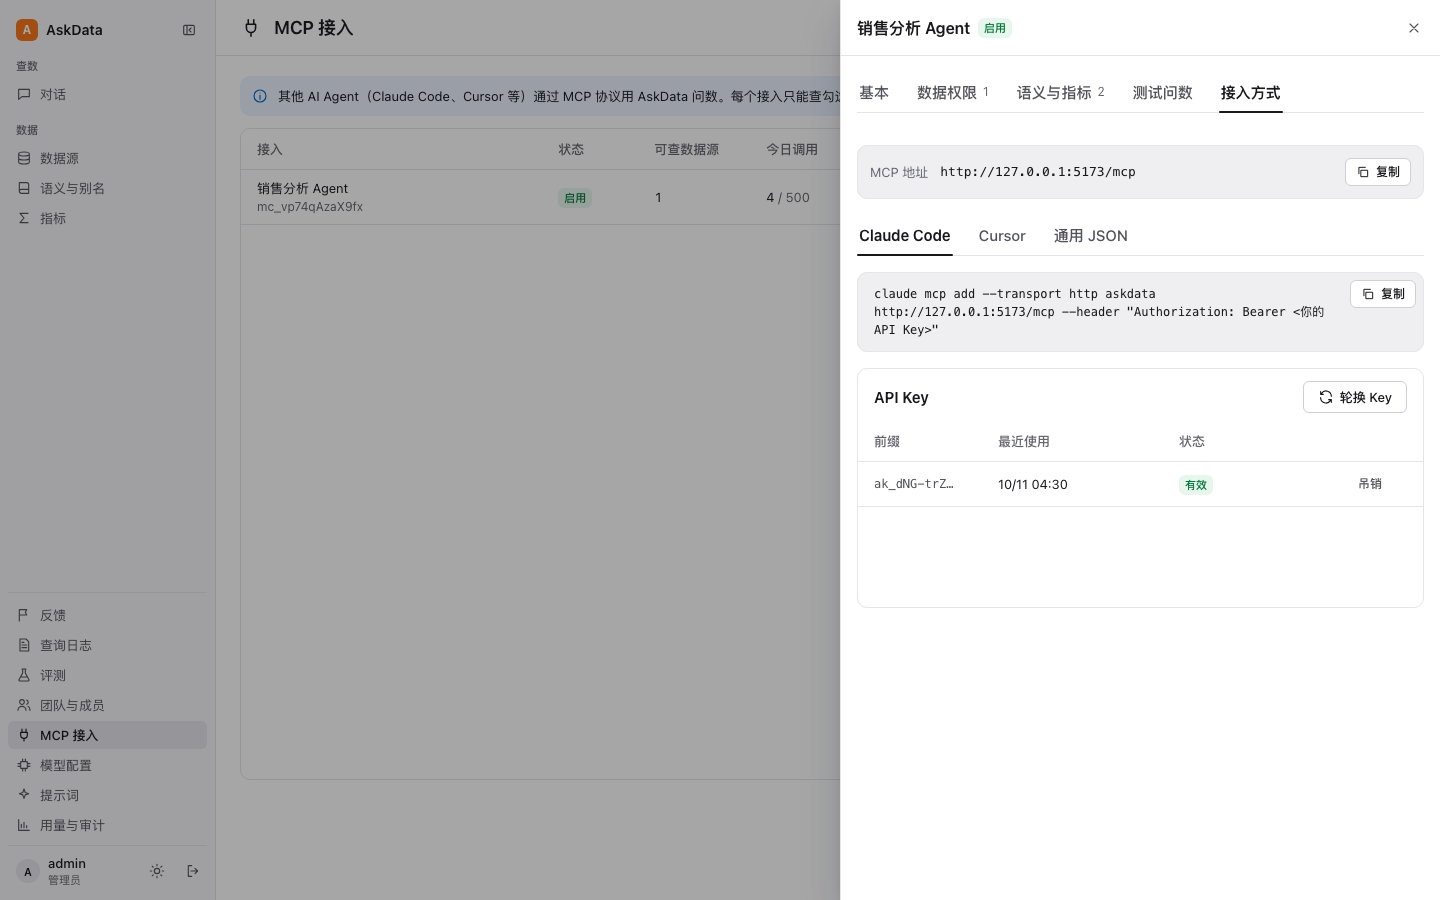
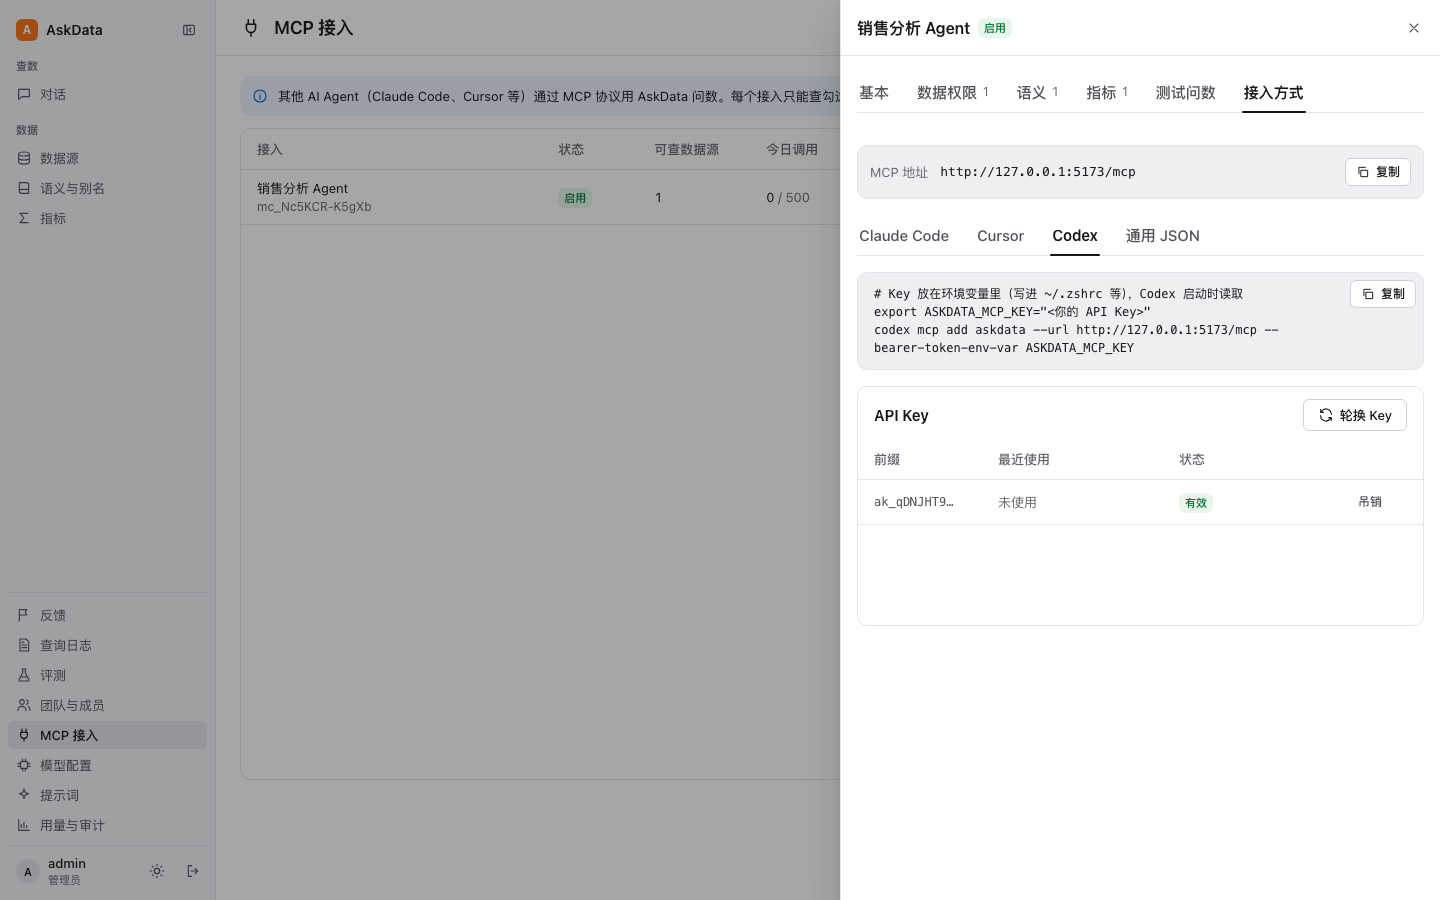
feat(mcp): separate semantic and metric tabs, Codex config
- the connection drawer has 语义 and 指标 tabs, each with its own override count,
  restore-all for that kind only and its own empty state; the platform tag and kind
  badge are gone from each row (the status column already says it)
- McpClientRead.override_kinds counts overrides per kind
- 接入方式 adds Codex: the key in an environment variable,
  codex mcp add --url ... --bearer-token-env-var
- README: Codex config, refreshed screenshots

diff --git a/frontend/src/pages/McpPage.tsx b/frontend/src/pages/McpPage.tsx
@@ -19,7 +19,7 @@ import {
   useUpdateMcpClient,
 } from '../api/hooks'
 import type { McpClientRead, McpClientWrite, McpKeyCreated, OverlayItem, TableRead, TestAskReply } from '../api/types'
-import { Badge, Button, Callout, ScopeTag, Switch, Tabs, TextField } from '../components/basic'
+import { Badge, Button, Callout, Switch, Tabs, TextField } from '../components/basic'
 import { Check } from '../components/Check'
 import { ConfirmDialog, Dialog, DialogFooter, Drawer, UnsavedDialog } from '../components/Dialog'
 import { Icon } from '../components/Icon'
@@ -262,7 +262,7 @@ function Snippet(props: { text: string }) {
   )
 }
 
-type TabId = 'basic' | 'grants' | 'items' | 'test' | 'connect'
+type TabId = 'basic' | 'grants' | 'semantic' | 'metric' | 'test' | 'connect'
 
 function McpDetail(props: { id: number; justCreated: McpKeyCreated | null; onClose: () => void }) {
   const client = useMcpClient(props.id)
@@ -300,7 +300,8 @@ function McpDetail(props: { id: number; justCreated: McpKeyCreated | null; onClo
             items={[
               { id: 'basic', label: '基本' },
               { id: 'grants', label: '数据权限', count: (c.datasource_ids ?? []).length },
-              { id: 'items', label: '语义与指标', count: c.override_count || undefined },
+              { id: 'semantic', label: '语义', count: c.override_kinds?.semantic || undefined },
+              { id: 'metric', label: '指标', count: c.override_kinds?.metric || undefined },
               { id: 'test', label: '测试问数' },
               { id: 'connect', label: '接入方式' },
             ]}
@@ -308,7 +309,7 @@ function McpDetail(props: { id: number; justCreated: McpKeyCreated | null; onClo
           <div className="cb-mcp-tab">
             {tab === 'basic' ? <BasicTab client={c} onDeleted={props.onClose} /> : null}
             {tab === 'grants' ? <GrantsTab client={c} onDirty={setDirty} /> : null}
-            {tab === 'items' ? <ItemsTab client={c} /> : null}
+            {tab === 'semantic' || tab === 'metric' ? <ItemsTab key={tab} client={c} kind={tab} /> : null}
             {tab === 'test' ? <TestTab client={c} /> : null}
             {tab === 'connect' ? <ConnectTab client={c} /> : null}
           </div>
@@ -530,15 +531,22 @@ const ITEM_FIELDS = {
   ],
 } as const
 
-function ItemsTab(props: { client: McpClientRead }) {
+const KIND_TEXT = {
+  semantic: { name: '语义', empty: '没有可继承的语义' },
+  metric: { name: '指标', empty: '没有可继承的指标' },
+} as const
+
+function ItemsTab(props: { client: McpClientRead; kind: 'semantic' | 'metric' }) {
   const c = props.client
+  const text = KIND_TEXT[props.kind]
+  const overridden = c.override_kinds?.[props.kind] ?? 0
   const toast = useToast()
   const [ds, setDs] = useState<number | null>(null)
   const items = useMcpItems(c.id, ds)
   const setItem = useSetMcpItem(c.id, ds)
   const restore = useRestoreMcpItems(c.id)
   const [editing, setEditing] = useState<OverlayItem | null>(null)
-  const list = items.data ?? []
+  const list = (items.data ?? []).filter((i) => i.kind === props.kind)
   const changed = list.filter((i) => i.state !== 'default').length
   const act = (item: OverlayItem, action: 'hide' | 'restore') => {
     const done = { onSuccess: () => toast({ tone: 'success', title: `${item.name}：${action === 'hide' ? '已对这个接入隐藏' : '已恢复平台默认'}` }), onError: (e: unknown) => toast({ tone: 'danger', title: '操作失败', message: fail(e) }) }
@@ -547,26 +555,26 @@ function ItemsTab(props: { client: McpClientRead }) {
   }
   return (
     <>
-      <Callout tone="info">默认使用平台级的语义和指标。在这里修改或隐藏只影响这个接入，平台上的定义不变；恢复默认即撤销修改。</Callout>
+      <Callout tone="info">默认使用平台级的{text.name}。在这里修改或隐藏只影响这个接入，平台上的定义不变；恢复默认即撤销修改。</Callout>
       <div className="cb-filters">
         <DatasourceSelect value={ds} onChange={setDs} />
         <span className="cb-faint">
           {changed ? `${changed} 项已修改或隐藏` : '全部为平台默认'}
-          {(c.override_count ?? 0) > changed ? `；另有 ${(c.override_count ?? 0) - changed} 项修改不在此列（属于其他数据源，或用到的字段未授权），授权恢复后自动生效` : ''}
+          {overridden > changed ? `；另有 ${overridden - changed} 项修改不在此列（属于其他数据源，或用到的字段未授权），授权恢复后自动生效` : ''}
         </span>
-        <Button disabled={!c.override_count || restore.isPending} onClick={() => restore.mutate({}, { onSuccess: (r) => toast({ tone: 'success', title: `已恢复 ${r.restored} 项为平台默认` }) })}>
+        <Button disabled={!overridden || restore.isPending} onClick={() => restore.mutate({ kind: props.kind }, { onSuccess: (r) => toast({ tone: 'success', title: `已恢复 ${r.restored} 项${text.name}为平台默认` }) })}>
           全部恢复默认
         </Button>
       </div>
-      <ListCard label="语义与指标">
+      <ListCard label={text.name}>
         <ListStatus
           loading={items.isLoading}
           error={items.error}
           onRetry={() => void items.refetch()}
-          what="语义与指标"
+          what={text.name}
           count={list.length}
           cols={4}
-          empty={<EmptyState icon="book" title="没有可继承的语义和指标">平台级语义和指标只有用到的字段都已授权给这个接入时才会出现。</EmptyState>}
+          empty={<EmptyState icon={props.kind === 'metric' ? 'sigma' : 'book'} title={text.empty}>平台级{text.name}只有用到的字段都已授权给这个接入时才会出现。</EmptyState>}
         >
           <table className="cb-data cb-data-fixed">
             <thead>
@@ -582,8 +590,6 @@ function ItemsTab(props: { client: McpClientRead }) {
                   <td title={String(item.effective.description ?? '')}>
                     <span className="cb-mcp-item">
                       <span className="cb-mcp-name">{item.name}</span>
-                      <Badge>{item.kind === 'metric' ? '指标' : '语义'}</Badge>
-                      <ScopeTag level="platform" />
                     </span>
                     <span className="cb-sub cb-mcp-def">{String(item.effective.description ?? '') || '无说明'}</span>
                   </td>

diff --git a/frontend/src/pages/mcp.test.tsx b/frontend/src/pages/mcp.test.tsx
@@ -65,6 +65,7 @@ function serve(state: { clients: ReturnType<typeof client>[]; items?: unknown[];
       if (path === '/api/mcp-clients/1/grants/7' && method === 'GET') return reply({ datasource_id: 7, columns: state.grants ?? [] })
       if (path === '/api/mcp-clients/1/grants/7' && method === 'PUT') return reply({ datasource_id: 7, columns: body.columns })
       if (path === '/api/mcp-clients/1/items') return reply(state.items ?? [])
+      if (path === '/api/mcp-clients/1/items/restore') return reply({ restored: 3 })
       return reply(null, 404)
     }),
   )
@@ -121,9 +122,9 @@ describe('MCP page', () => {
     expect(put?.body).toEqual({ columns: [{ column_id: 12, mask_rule: { kind: 'phone', prefix: 0, suffix: 0 } }] })
   })
 
-  it('says when edits are waiting for a grant instead of hiding them', async () => {
-    serve({
-      clients: [client({ override_count: 3 })],
+  it('keeps semantics and metrics apart and says when edits wait for a grant', async () => {
+    const sent = serve({
+      clients: [client({ override_count: 4, override_kinds: { metric: 3, semantic: 1 } })],
       items: [
         { kind: 'metric', item_id: 1, name: '销售额', state: 'edited', platform: { description: '实付合计' }, effective: { description: '含运费' } },
         { kind: 'semantic', item_id: 2, name: '实付金额', state: 'default', platform: {}, effective: { description: '订单实付' } },
@@ -131,10 +132,15 @@ describe('MCP page', () => {
     })
     mount()
     await userEvent.click(await screen.findByRole('button', { name: '管理' }))
-    await userEvent.click(await screen.findByRole('tab', { name: /语义与指标/ }))
+    await userEvent.click(await screen.findByRole('tab', { name: /^指标/ }))
     expect(await screen.findByText('含运费')).toBeInTheDocument()
+    expect(screen.queryByText('实付金额')).toBeNull()
     expect(screen.getByText(/1 项已修改或隐藏/)).toHaveTextContent('另有 2 项修改不在此列')
-    expect(screen.getByRole('button', { name: '全部恢复默认' })).toBeEnabled()
+    await userEvent.click(screen.getByRole('button', { name: '全部恢复默认' }))
+    await waitFor(() => expect(sent.find((r) => r.path.endsWith('/items/restore'))?.body).toEqual({ kind: 'metric' }))
+    await userEvent.click(screen.getByRole('tab', { name: /^语义/ }))
+    expect(await screen.findByText('实付金额')).toBeInTheDocument()
+    expect(screen.queryByText('含运费')).toBeNull()
   })
 
   it('is an admin-only entry', () => {

diff --git a/frontend/src/lib/mcp.test.ts b/frontend/src/lib/mcp.test.ts
@@ -47,8 +47,9 @@ describe('MCP 接入状态与密钥', () => {
   it('配置片段只在刚拿到 Key 时带真实值', () => {
     const withKey = snippets('http://x/mcp', 'ak_secret')
     expect(withKey[0]?.text).toContain('--transport http askdata http://x/mcp')
-    expect(withKey.every((s) => s.text.includes('Bearer ak_secret'))).toBe(true)
+    expect(withKey.every((s) => s.text.includes('ak_secret'))).toBe(true)
+    expect(withKey.find((s) => s.id === 'codex')?.text).toContain('codex mcp add askdata --url http://x/mcp --bearer-token-env-var ASKDATA_MCP_KEY')
     expect(snippets('http://x/mcp', null).every((s) => s.text.includes(KEY_PLACEHOLDER))).toBe(true)
-    expect(JSON.parse(withKey[2]?.text ?? '{}').mcpServers.askdata.type).toBe('http')
+    expect(JSON.parse(withKey.find((s) => s.id === 'json')?.text ?? '{}').mcpServers.askdata.type).toBe('http')
   })
 })

diff --git a/frontend/src/lib/mcp.ts b/frontend/src/lib/mcp.ts
@@ -78,6 +78,7 @@ export function snippets(url: string, key: string | null): { id: string; label: 
   return [
     { id: 'claude', label: 'Claude Code', text: `claude mcp add --transport http askdata ${url} --header "Authorization: Bearer ${secret}"` },
     { id: 'cursor', label: 'Cursor', text: JSON.stringify({ mcpServers: { askdata: { url, headers: server.headers } } }, null, 2) },
+    { id: 'codex', label: 'Codex', text: `# Key 放在环境变量里（写进 ~/.zshrc 等），Codex 启动时读取\nexport ASKDATA_MCP_KEY="${secret}"\ncodex mcp add askdata --url ${url} --bearer-token-env-var ASKDATA_MCP_KEY` },
     { id: 'json', label: '通用 JSON', text: JSON.stringify({ mcpServers: { askdata: server } }, null, 2) },
   ]
 }

diff --git a/frontend/src/api/schema.d.ts b/frontend/src/api/schema.d.ts
@@ -3661,6 +3661,10 @@ export interface components {
              * @default 0
              */
             override_count: number;
+            /** Override Kinds */
+            override_kinds?: {
+                [key: string]: number;
+            };
             /** Public Id */
             public_id: string;
             /**

diff --git a/backend/app/modules/mcpaccess/service.py b/backend/app/modules/mcpaccess/service.py
@@ -10,6 +10,7 @@ import hashlib
 import json
 import secrets
 import time
+from collections import Counter
 from collections.abc import Awaitable, Callable
 from dataclasses import dataclass, field
 from datetime import UTC, datetime, timedelta
@@ -157,6 +158,7 @@ class McpAccessService:
                     catalog = await self.grants.schema.catalog(datasource_id)
                     live.update(c.id for t in catalog for c in t.columns)
                 stale = len(granted - live)
+        overrides = await self.repository.overrides(row.id)
         return McpClientRead(
             id=row.id,
             public_id=row.public_id,
@@ -175,7 +177,8 @@ class McpAccessService:
             keys=[McpKeyRead.model_validate(key) for key in await self.repository.keys(row.id)],
             datasource_ids=await self._datasource_ids(row) if row.status == "active" else [],
             stale_grants=stale,
-            override_count=len(await self.repository.overrides(row.id)),
+            override_count=len(overrides),
+            override_kinds=dict(Counter(item.kind for item in overrides)),
         )
 
     async def clients(self, *, actor: CurrentUser) -> list[McpClientRead]:

diff --git a/backend/tests/test_mcp_access.py b/backend/tests/test_mcp_access.py
@@ -345,7 +345,11 @@ async def test_definitions_are_inherited_edited_hidden_and_restored(database):
                 actor=ADMIN,
             )
         assert outside.value.code == ErrorCode.SQL_OUT_OF_SCOPE
-        assert await service.restore(client_id, OverrideRestore(), actor=ADMIN) == 2
+        detail = await service.get(client_id, actor=ADMIN)
+        assert detail.override_kinds == {"semantic": 1, "metric": 1}
+        assert await service.restore(client_id, OverrideRestore(kind="metric"), actor=ADMIN) == 1
+        assert (await service.get(client_id, actor=ADMIN)).override_kinds == {"semantic": 1}
+        assert await service.restore(client_id, OverrideRestore(), actor=ADMIN) == 1
         assert {i.state for i in await service.overlay_items(client_id, 1, actor=ADMIN)} == {
             "default"
         }

diff --git a/backend/app/modules/mcpaccess/schemas.py b/backend/app/modules/mcpaccess/schemas.py
@@ -63,6 +63,8 @@ class McpClientRead(McpClientWrite):
     # Granted columns that a schema sync has since removed.
     stale_grants: int = 0
     override_count: int = 0
+    # The same overrides by kind: {"semantic": 1, "metric": 2}.
+    override_kinds: dict[str, int] = Field(default_factory=dict)
 
 
 class McpClientStatus(BaseModel):
